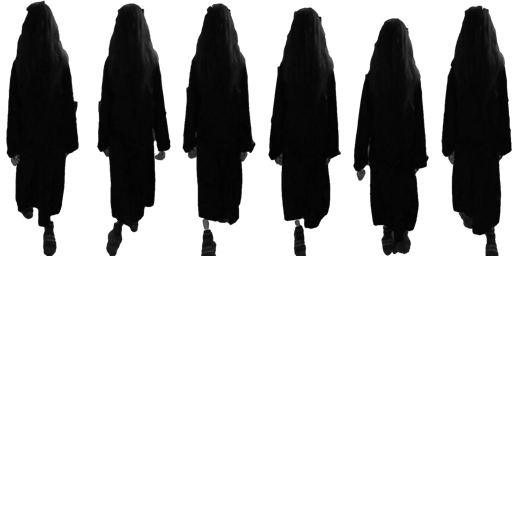
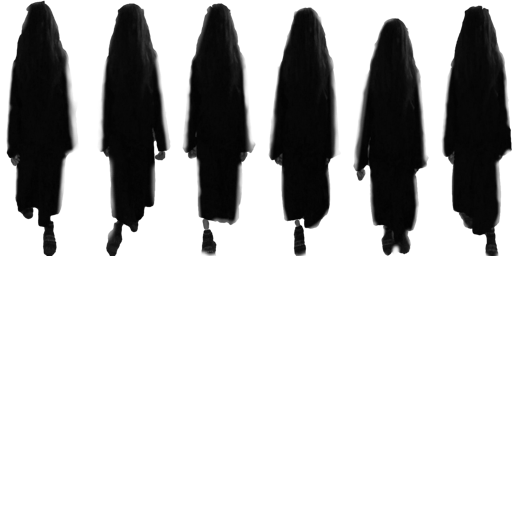
enable blend

diff --git a/src/pitfall/Level.js b/src/pitfall/Level.js
@@ -31,17 +31,17 @@ const data = [
   5, _, _, _, _, _, _, _, _, _, 3, _, _, _, _, _, _, _, _, _, _, _, _, _, _,  _, _, _, _, _, _, _, _, _, _, _, _, _, _, _, _, _, _, _, _, _, _, _, _, 5,
   5, _, _, _, _, _, _, _, _, _, 3, _, _, _, _, _, _, _, _, _, _, _, _, _, _,  _, _, _, _, _, _, _, _, _, _, _, _, _, _, _, _, _, _, _, _, _, _, _, _, 5,
   5, _, _, _, _, _, _, _, _, _, 3, _, _, _, _, _, _, _, _, _, _, _, _, _, _,  _, _, _, _, _, _, _, _, _, _, _, _, _, _, _, _, _, _, _, _, _, _, _, _, 5,
-  4, 1, 1, 1, 1, 1, 1, 2, 8, _, 7, 1, 1, 1, 1, 1, 1, 1, 1, 1, 1, 1, 1, 1, 1,  1, 1, 2, 1, 1, 1, 1, 2, 8, _, _, 7, 1, 2, 1, 1, 1, 2, 1, 1, 1, 1, 2, 1, 4,
-  5, _, _, _, _, _, _, 3, _, _, _, _, _, _, _, _, _, _, _, _, _, _, _, _, _,  _, _, 3, _, _, _, _, 3, _, _, _, _, _, 3, _, _, _, _, _, _, _, _, 3, _, 5,
-  5, _, _, _, _, _, _, 3, _, _, _, _, _, _, _, _, _, _, _, _, _, _, _, _, _,  _, _, 3, _, _, _, _, 3, _, _, _, _, _, 3, _, _, _, _, _, _, _, _, 3, _, 5,
-  5, _, _, _, _, _, _, 3, _, _, _, _, _, _, _, _, _, _, _, _, _, _, _, _, _,  _, _, 3, _, _, _, _, 3, _, _, _, _, _, 3, _, _, _, _, _, _, _, _, 3, _, 5,
-  5, _, _, _, _, _, _, 3, _, _, _, _, _, _, _, _, _, _, _, _, _, _, _, _, _,  _, _, 3, _, _, _, _, 3, _, _, _, _, _, 3, _, _, _, _, _, _, _, _, 3, _, 5,
-  4, 1, 2, 1, 1, 1, 1, 1, 1, 1, 1, 1, 2, 1, 1, 8, _, _, 1, 1, 1, 1, 1, 1, 1,  1, 1, 4, 4, 1, 1, 1, 1, 1, 1, 1, 1, 2, 1, 8, _, _, 7, 2, 1, 1, 1, 1, 1, 4,
-  5, _, 3, _, _, _, _, _, _, _, _, _, 3, _, _, _, _, _, _, _, _, _, _, _, _,  _, _, 5, 5, _, _, _, _, _, _, _, _, 3, _, _, _, _, _, 3, _, _, _, _, _, 5,
-  5, _, _, _, _, _, _, _, _, _, _, _, 3, _, _, _, _, _, _, _, _, _, _, _, _,  _, _, 5, 5, _, _, _, _, _, _, _, _, 3, _, _, _, _, _, 3, _, _, _, _, _, 5,
-  5, _, _, _, _, _, _, _, _, _, _, _, 3, _, _, _, _, _, _, _, _, _, _, _, _,  _, _, 5, 5, _, _, _, _, _, _, _, _, 3, _, _, _, _, _, 3, _, _, _, _, _, 5,
-  5, _, _, _, _, _, _, _, _, _, _, _, 3, _, _, _, _, _, _, _, _, _, _, _, _,  _, _, 5, 5, _, _, _, _, _, _, _, _, 3, _, _, _, _, _, 3, _, _, _, _, _, 5,
-  4, 1, 1, 1, 2, _, 7, 2, 1, 1, 1, 1, 1, 1, 1, 1, 1, 1, 8, _, _, 7, 1, 1, 2,  1, 1, 1, 1, 1, 1, 1, 2, 1, 1, 1, 1, 1, 1, 1, 1, 1, 1, 8, _, _, _, _, _, 1,
+  4, 1, 1, 1, 1, 1, 1, 2, 8, _, 7, 1, 1, 1, 2, 1, 1, 1, 1, 1, 1, 1, 1, 1, 1,  1, 1, 2, 1, 1, 1, 1, 2, 8, _, _, 7, 1, 2, 1, 1, 1, 2, 1, 1, 1, 1, 2, 1, 4,
+  5, _, _, _, _, _, _, 3, _, _, _, _, _, _, 3, _, _, _, _, _, _, _, _, _, _,  _, _, 3, _, _, _, _, 3, _, _, _, _, _, 3, _, _, _, _, _, _, _, _, 3, _, 5,
+  5, _, _, _, _, _, _, 3, _, _, _, _, _, _, 3, _, _, _, _, _, _, _, _, _, _,  _, _, 3, _, _, _, _, 3, _, _, _, _, _, 3, _, _, _, _, _, _, _, _, 3, _, 5,
+  5, _, _, _, _, _, _, 3, _, _, _, _, _, _, 3, _, _, _, _, _, _, _, _, _, _,  _, _, 3, _, _, _, _, 3, _, _, _, _, _, 3, _, _, _, _, _, _, _, _, 3, _, 5,
+  5, _, _, _, _, _, _, 3, _, _, _, _, _, _, 3, _, _, _, _, _, _, _, _, _, _,  _, _, 3, _, _, _, _, 3, _, _, _, _, _, 3, _, _, _, _, _, _, _, _, 3, _, 5,
+  4, 1, 2, 1, 1, 1, 1, 1, 1, 1, 1, 1, 2, 1, 1, 8, _, _, 1, 1, 1, 1, 2, 1, 1,  1, 1, 4, 4, 1, 1, 1, 1, 1, 1, 1, 1, 2, 1, 8, _, _, 7, 2, 1, 1, 1, 1, 1, 4,
+  5, _, 3, _, _, _, _, _, _, _, _, _, 3, _, _, _, _, _, _, _, _, _, 3, _, _,  _, _, 5, 5, _, _, _, _, _, _, _, _, 3, _, _, _, _, _, 3, _, _, _, _, _, 5,
+  5, _, _, _, _, _, _, _, _, _, _, _, 3, _, _, _, _, _, _, _, _, _, 3, _, _,  _, _, 5, 5, _, _, _, _, _, _, _, _, 3, _, _, _, _, _, 3, _, _, _, _, _, 5,
+  5, _, _, _, _, _, _, _, _, _, _, _, 3, _, _, _, _, _, _, _, _, _, 3, _, _,  _, _, 5, 5, _, _, _, _, _, _, _, _, 3, _, _, _, _, _, 3, _, _, _, _, _, 5,
+  5, _, _, _, _, _, _, _, _, _, _, _, 3, _, _, _, _, _, _, _, _, _, 3, _, _,  _, _, 5, 5, _, _, _, _, _, _, _, _, 3, _, _, _, _, _, 3, _, _, _, _, _, 5,
+  4, 1, 1, 1, 2, _, 7, 2, 1, 1, 1, 1, 1, 1, 1, 1, 1, 1, 8, _, _, 7, 1, 1, 2,  1, 1, 1, 1, 1, 1, 1, 2, 1, 1, 1, 1, 1, 1, 1, 1, 1, 1, 8, 1, 8, _, _, _, 5,
   5, _, _, _, 3, _, _, 3, _, _, _, _, _, _, _, _, _, _, _, _, _, _, _, _, 3,  _, _, _, _, _, _, _, 3, _, _, _, _, _, _, _, _, _, _, _, _, _, _, _, _, 5,
   5, _, _, _, 3, _, _, 3, _, _, _, _, _, _, _, _, _, _, _, _, _, _, _, _, 3,  _, _, _, _, _, _, _, 3, _, _, _, _, _, _, _, _, _, _, _, _, _, _, _, _, 5,
   5, _, _, _, 3, _, _, 3, _, _, _, _, _, _, _, _, _, _, _, _, _, _, _, _, 3,  _, _, _, _, _, _, _, 3, _, _, _, _, _, _, _, _, _, _, _, _, _, _, _, _, 5,

diff --git a/src/pitfall/Player2D.js b/src/pitfall/Player2D.js
@@ -12,17 +12,20 @@ class Player2D extends TileSprite {
       w: 10,
       h: 20
     };
-    this.anims = new AnimManager(this);
-    this.anims.add("idle", [{ x: 0, y: 0 }], 1000);
-    this.anims.add("walk", [1, 2, 3, 4, 5].map(x => ({ x, y: 0 })), 0.1);
-    this.anims.add("climb", [0, 1].map(x => ({ x, y: 1 })), 0.1);
-    this.anims.play("walk");
+
+    const anims = new AnimManager(this);
+    anims.add("idle", [{ x: 0, y: 0 }], 1000);
+    anims.add("walk", [1, 2, 3, 4, 5].map(x => ({ x, y: 0 })), 0.1);
+    anims.add("climb", [0, 1].map(x => ({ x, y: 1 })), 0.1);
+    anims.play("walk");
+    this.anims = anims;
 
     this.controls = controls;
     this.map = map;
+    this.onGameOver = onGameOver;
+
     this.hp = 2;
     this.invincible = 0;
-    this.onGameOver = onGameOver;
     this.dead = false;
     this.wins = false;
   }
@@ -41,14 +44,13 @@ class Player2D extends TileSprite {
   }
 
   update(dt, t) {
-    const { pos, controls, map, anims } = this;
+    const { pos, controls, map, anims, anchor, scale } = this;
     const { x, y } = controls;
     const xo = 100 * dt * Math.sign(x);
     const yo = 100 * dt * Math.sign(y);
     const r = wallslideWithLadders(this, map, xo, yo);
     if (!this.onLadder) {
       pos.x += r.x;
-
       // TODO: LOLOLOLOL... last minute fix for ladder climb teleport bug!
       pos.x = Math.min(1540, pos.x);
     }
@@ -56,23 +58,19 @@ class Player2D extends TileSprite {
 
     if (this.invincible) {
       this.visible = ((t * 10) % 2) | 0;
-      this.invincible -= dt;
-      if (this.invincible <= 0) {
+      if ((this.invincible -= dt) <= 0) {
         this.visible = true;
       }
     }
 
     if (!this.onLadder) {
-      if (!x) anims.play("idle");
+      if (!x) {
+        anims.play("idle");
+      }
       else {
         anims.play("walk");
-        if (x > 0) {
-          this.anchor.x = 0;
-          this.scale.x = 1;
-        } else if (x < 0) {
-          this.anchor.x = this.w;
-          this.scale.x = -1;
-        }
+        anchor.x = x > 0 ? 0 : this.w;
+        scale.x = x > 0 ? 1 : -1;
       }
     } else {
       if (!y) anims.stop();

diff --git a/src/minecraft/shaders/BillboardShader.js b/src/minecraft/shaders/BillboardShader.js
@@ -38,7 +38,7 @@ const fs = `#version 300 es
   out vec4 col;
   void main() {
     vec4 tx = texture(tex, vuv);
-    if (tx.a < 0.1)
+    if (tx.a == 0.0)
       discard;
     //col = vec4(1.0, 0.2, 0.2, 1.0);
 
@@ -48,7 +48,7 @@ const fs = `#version 300 es
     float fog = 1.0 - (clamp((far - dist) / (far - near), 0.0, 1.0));
     //vec4 tx = useTex == 1.0 ? texture(tex, vuv) : vcol;
     vec4 fogmix = mix(tx, vec4(0, 0, 0, 1.0), fog);//vec4(65.0/255.0, 95.0/255.0, 0.8, 1.0), fog);
-    col = vec4(fogmix.rgb, 1.0);
+    col = vec4(fogmix.rgb, tx.a);
 
   }
 `;
@@ -56,10 +56,7 @@ const fs = `#version 300 es
 class BillboardShader extends Shader {
   constructor(gl, pMatrix) {
     super(gl, vs, fs);
-    this.setUniforms(
-      "proj", pMatrix,
-      "colour", [1.0, 1.0, 0.0, 0.1]
-    );
+    this.setUniforms("proj", pMatrix, "colour", [1.0, 1.0, 0.0, 0.1]);
   }
 }
 

diff --git a/src/main.js b/src/main.js
@@ -44,13 +44,13 @@ function preload() {
   return Promise.all(
     [
       { name: "blocks", src: "res/images/mine.png", type: "tex" },
+      { name: "ringu", src: "res/images/ringu.png", type: "tex" },
       { name: "cube0", src: "res/images/mc_rt.png", type: "img" },
       { name: "cube1", src: "res/images/mc_lf.png", type: "img" },
       { name: "cube2", src: "res/images/mc_up.png", type: "img" },
       { name: "cube3", src: "res/images/mc_dn.png", type: "img" },
       { name: "cube4", src: "res/images/mc_bk.png", type: "img" },
-      { name: "cube5", src: "res/images/mc_ft.png", type: "img" },
-      { name: "ringu", src: "res/images/ringu.png", type: "tex" }
+      { name: "cube5", src: "res/images/mc_ft.png", type: "img" }
     ].map(
       ({ name, src, type }) =>
         new Promise(res => {

diff --git a/src/minecraft/shaders/VoxelShader.js b/src/minecraft/shaders/VoxelShader.js
@@ -41,7 +41,7 @@ const fss = `#version 300 es
       float fog = 1.0 - (clamp((far - dist) / (far - near), 0.0, 1.0));
       //vec4 tx = vec4(0.8, 0.5, 0.0, 1.0) * texture(tex0, texCoord);
       vec4 tx = vec4(0.5, 0.5, 0.5, 1.0) * texture(tex0, texCoord);
-      vec4 fogColor = vec4(1.0 * warn, 0, 0, 1.0);
+      vec4 fogColor = vec4(0.7 * warn, 0, 0, 1.0);
       vec4 fogmix = mix(vec4(tx.x + (norm.z * -0.00), tx.yzw), fogColor, fog);// vec4(65.0/255.0, 95.0/255.0, 0.8, 1.0), fog);
       col= vec4(fogmix.rgb * occ, 1.0);
   }

diff --git a/src/minecraft/models/Billboard.js b/src/minecraft/models/Billboard.js
@@ -43,7 +43,7 @@ class Billboard {
     ];
 
     const mesh = glUtils.createMeshVAO(gl, name, indices, verts, normals, uvs);
-    mesh.noCulling = false;
+    mesh.doBlending = true;
     return mesh;
   }
 }
